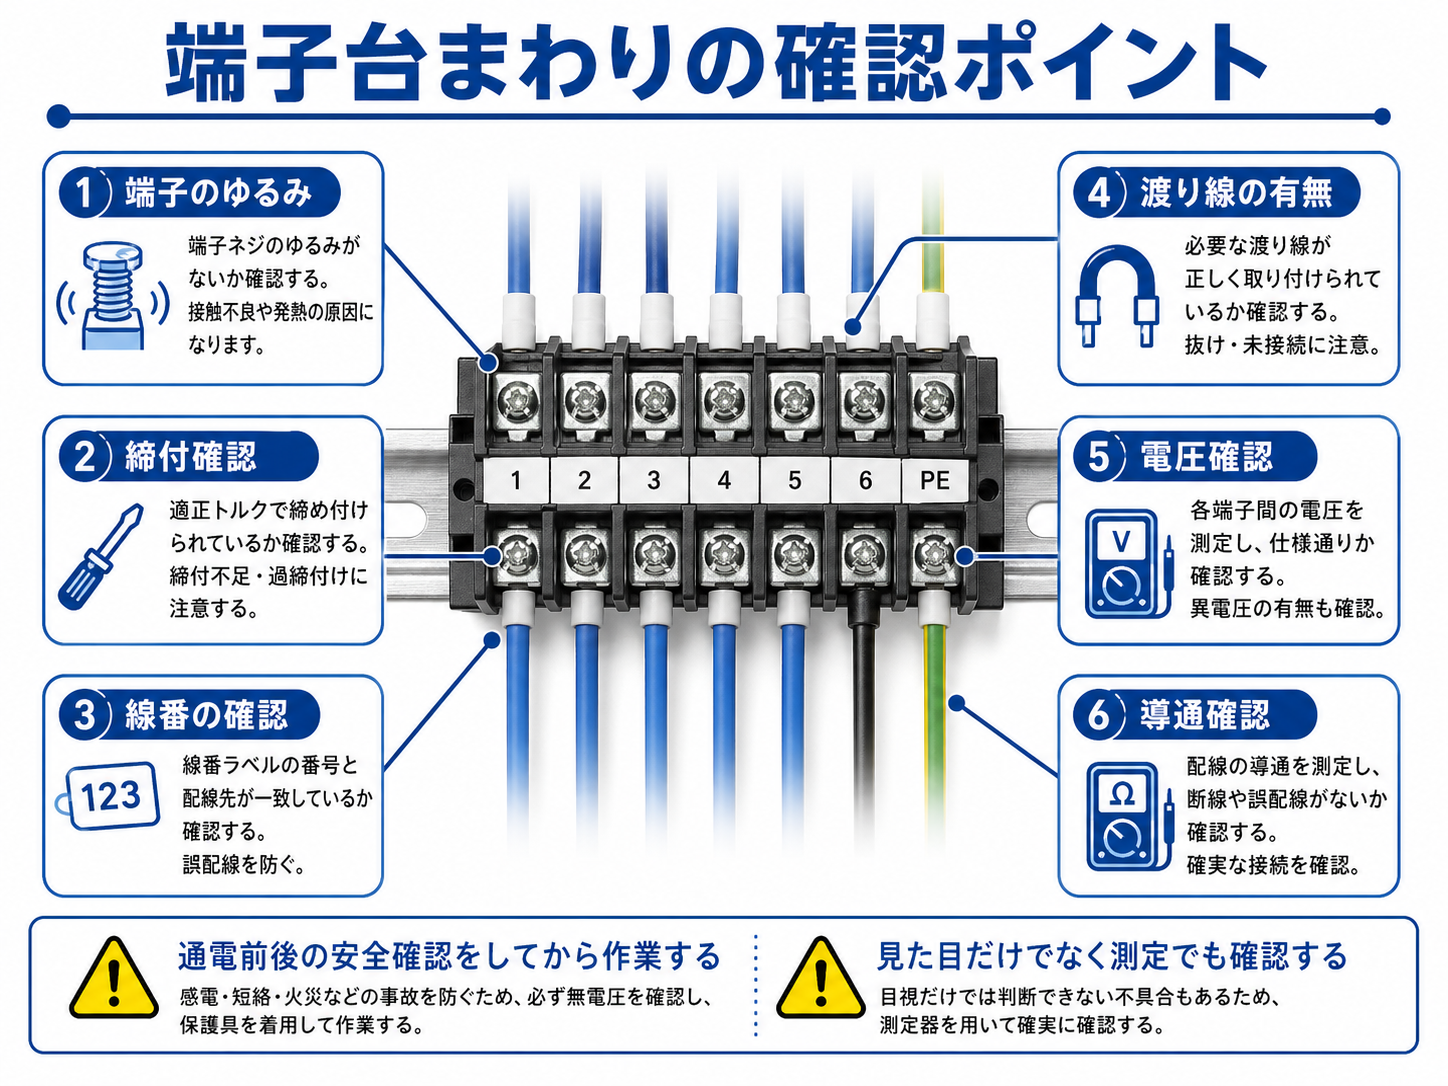
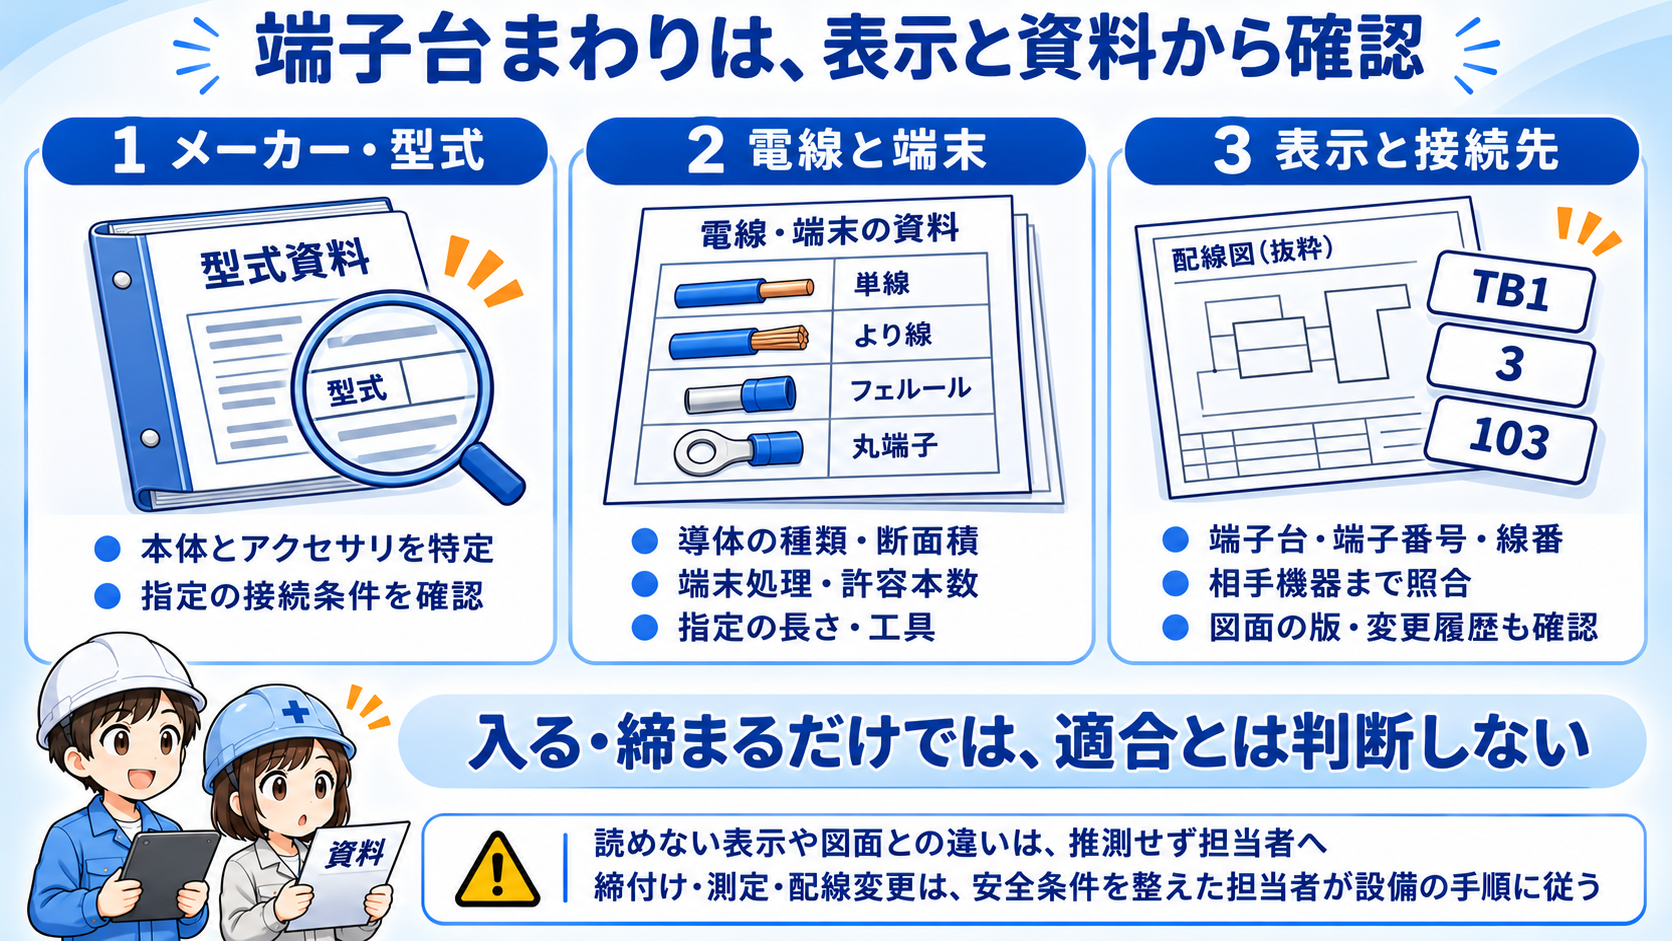
Refresh terminal block article with approved images and scoped draft validation records

diff --git a/articles/terminal-block-basic.html b/articles/terminal-block-basic.html
@@ -13,7 +13,8 @@
   <meta property="og:title" content="端子台とは？制御盤で配線を中継する部品の見方をやさしく解説">
   <meta property="og:description" content="制御盤でよく見る端子台の基本、端子番号と配線の見方、端子台まわりの確認ポイントを初心者向けに整理します。">
   <meta property="og:url" content="https://denkicontrol.com/articles/terminal-block-basic.html">
-  <meta property="og:image" content="https://denkicontrol.com/assets/images/terminal-block-basic/terminal-block-hero.png">
+  <meta property="og:image" content="https://denkicontrol.com/assets/images/terminal-block-basic/terminal-block-ogp.png">
+  <meta name="twitter:image" content="https://denkicontrol.com/assets/images/terminal-block-basic/terminal-block-ogp.png">
   <meta name="twitter:card" content="summary_large_image">
   <meta name="theme-color" content="#f8fbff">
   <link rel="icon" type="image/png" sizes="16x16" href="../assets/images/common/site-logo-dcl-16.png">
@@ -1562,12 +1563,17 @@ body{
               </tbody>
             </table>
           </div>
+          <figure class="article-figure">
+            <img src="../assets/images/terminal-block-basic/terminal-block-connection-comparison.png" alt="ねじの締付けで圧着端子を固定する例と、ばねで導体を保持するプッシュイン方式の模式図" loading="lazy" decoding="async">
+            <figcaption>接続を固定する方法の比較です。左図は内部の導通関係を示していません。プッシュインはねじなし式の一例で、クランプ操作式などもあります。適合電線、端末処理、操作方法は対象型式の資料で確認します。</figcaption>
+          </figure>
+
           <p>渡り配線には、電線でつなぐ方法と対応する短絡バー・ジャンパを使う方法があります。<strong>対応型式・接続する端子・極数・電流条件</strong>を確認し、似た形の金具を流用しません。詳しくは<a href="terminal-block-jumper-basic.html">端子台の渡り線・ジャンパーの基本</a>へ進んでください。</p>
 
           <figure class="article-figure">
-            <img src="../assets/images/terminal-block-basic/terminal-block-overview.png" alt="制御盤の端子台と盤外機器・盤内機器の接続イメージ" loading="lazy" decoding="async">
+            <img src="../assets/images/terminal-block-basic/terminal-block-overview.png" alt="渡り接続のない中継端子台の3極と、各極の前後だけがつながる模式図" loading="lazy" decoding="async">
             <figcaption>
-              端子台は、盤外機器側の配線と制御盤内の機器側の配線をつなぐ中継ポイントです。端子番号を基準にして配線を整理します。
+              一般的な中継端子台の例です。同じ極の両側はつながり、隣の極とは絶縁されています。渡り接続のない模式図であり、実際の接続関係は型式資料と図面で確認します。
             </figcaption>
           </figure>
 
@@ -1607,9 +1613,9 @@ body{
           </p>
 
           <figure class="article-figure">
-            <img src="../assets/images/terminal-block-basic/terminal-number-wiring.png" alt="図面の端子番号と実物の端子台番号を照らし合わせるイメージ" loading="lazy" decoding="async">
+            <img src="../assets/images/terminal-block-basic/terminal-number-wiring.png" alt="端子台TB1の端子3、線番103、盤外機器Aと盤内入力機器Bを図面と表示で照合する架空例" loading="lazy" decoding="async">
             <figcaption>
-              図面の端子番号、実物の端子台番号、線番、配線先を照らし合わせて確認します。端子番号だけでなく、線番や行き先も合わせて見ると間違いにくいです。
+              端子台の識別、端子番号、線番、接続先は別々の情報です。TB1・端子3・線番103は番号対応の架空例で、電源・戻り線・保護回路を省略しています。実設備の配線図ではありません。
             </figcaption>
           </figure>
 
@@ -1710,7 +1716,7 @@ body{
           <h2>端子台まわりで確認する表示と仕様</h2>
           <p>最初に整理するのは、図面・型式・識別表示です。電線が穴に入ることや、ねじ径が同じことだけでは、適合する接続とは判断できません。</p>
           <figure class="article-figure">
-            <img src="../assets/images/terminal-block-basic/terminal-block-checkpoints.png" alt="端子台まわりの確認ポイント" loading="lazy" decoding="async">
+            <img src="../assets/images/terminal-block-basic/terminal-block-checkpoints.png" alt="メーカーと型式、電線と端末、識別表示と接続先を資料で確認する3項目" loading="lazy" decoding="async">
             <figcaption>型式、電線と端末、接続先を資料で確認します。締付けや測定を行う場合は、担当者が設備の安全手順と対象型式の指示に従います。</figcaption>
           </figure>
           <div class="check-grid">
@@ -1767,6 +1773,7 @@ body{
           <h2>メーカー公式資料・技術参照元</h2>
           <p>公式資料確認日：<time datetime="2026-11-11">2026年11月11日</time>。接続方式と確認項目の根拠として、次の資料を参照しています。実際の選定・作業では、対象型式の最新の取扱説明書・定格表と設備の図面を優先してください。</p>
           <ul>
+            <li><a href="https://www.idec.com/ja-jp/industrial-components/connection-devices/terminal-blocks/bn-series" target="_blank" rel="noopener noreferrer">IDEC：BNシリーズ端子台</a> — 黒い隔壁を持つねじ式端子台の外観例。画像は特定型式の再現ではありません。</li>
             <li><a href="https://www.fa.omron.co.jp/guide/technicalguide/46/342/index.html" target="_blank" rel="noopener noreferrer">オムロン：プッシュインPlus端子台の技術解説</a> — ねじ式・ねじなし式、導体とフェルールの扱い。</li>
             <li><a href="https://www.fa.omron.co.jp/products/family/3480/specification/" target="_blank" rel="noopener noreferrer">オムロン：XW5T-Pの定格・性能</a> — 型式と導体種類ごとに適合条件が異なる例。</li>
             <li><a href="https://faq.fa.omron.co.jp/tech/s/article/faq05534" target="_blank" rel="noopener noreferrer">オムロン：渡り配線に関するFAQ</a> — 対応する短絡バー・接続口の条件。</li>

diff --git a/docs/reference-notes/terminal-block-basic.md b/docs/reference-notes/terminal-block-basic.md
@@ -1,7 +1,7 @@
 # terminal-block-basic 公式参照メモ
 
 ## 状態と確認日
-- 2026-11-11。本文下書きの技術精査用。画像の修正・採用と公開前確認は未完了であり、公開承認ではない。
+- 2026-11-11。本文と画像の正式Preview用下書き。画像6枚は自己点検と独立審査後のPreview採用候補として配置済み。最終Previewの管理者確認、本番承認・公開は未完了。
 - 最新main 45c9773843e16024ba1525825582e20d83ace6b8を基準に作成。未マージPR #1463の安全表現を参照したが、古いレイアウトと共通部品を戻さない。
 
 ## 参照した公式元と使用範囲
@@ -35,13 +35,56 @@
 - FK12-014/015：見送り。工具の人気、無理な押込みや端末切断は本文の根拠としない。今回原典を再確認していない。
 - FK10-001/003、FK15-009：追加検証Bを維持。一般化せず不採用。
 
-## 画像ルールと未完了事項
-- ロゴ・実在型式・銘板は再現しない。概念図として描く。
-- 許可する説明用表記は「端子台TB1」「端子番号3」「線番103」「盤外機器A」「盤内入力機器B」。架空例であることを本文と図の双方で明示する。
-- 既存terminal-number-wiring.pngは番号対応が不明確で本文と整合しないため差替え必須。terminal-block-checkpoints.pngも測定・締付けの表現が新本文と矛盾し、そのまま採用しない。
-- overviewは隣接極の導通を誤解させないよう再制作・確認する。heroの指示先も改善候補。画像は自己点検と独立審査が終わるまで採用しない。
-- 現時点のHTMLに残る旧画像参照は作業途中のもので、完成したPreviewではない。画像未解決のまま公開・マージしない。
+## 画像の採用範囲と未完了事項
+- 画像はロゴ・実在型式・銘板を再現しない概念図。2026-11-11にHero、OGP、内部構造、接続方式比較、端子番号と線番の照合、確認ポイントの6枚を自己点検と独立画像審査後のPreview採用候補として配置した。旧画像をそのまま採用したものではない。
+- HeroとOGPは3極・6ねじ・6配線、丸端子の余分な穴の除去、隣接極の分離、手が導体に触れない表現を確認した。
+- 内部構造は渡り配線のない一般的な中継の模式図。端子番号と線番の照合は「端子台TB1」「端子番号3」「線番103」「盤外機器A」「盤内入力機器B」の架空例で、施工可能な回路図や標準採番法ではない。
+- 接続方式比較は固定方法だけを示す。左側は隔壁のある2極にも見えるため、この図から内部導通や同電位を断定しない。確認ポイントは資料照合と担当者判断を中心とし、一律の測定・増締めを勧めない。
+- 外観参照: [IDEC BNシリーズ端子台](https://www.idec.com/ja-jp/industrial-components/connection-devices/terminal-blocks/bn-series) と同ページの [公式製品写真](https://apem.asset.akeneo.cloud/idec_product_images/media/BN_Series.jpg)。2026-11-11確認。レール取付、黒い隔壁、ねじ、導電金具という一般外観だけを参照し、特定型式の精密な再現とはしない。本文の公式資料欄にも参照範囲付きのリンクを追加した。
+- 接続原理の参照は上記オムロン技術解説。ねじ式・ねじなし式の固定方法、導体・端末処理の適合を区別し、画像だけで定格・締付け条件・内部導通を判断させない。
+- 画像のローカル原本とGitHub保存用blobのGit SHA一致は6枚すべて確認。最終publicationのWebP対応、外部Previewでの画像表示、PC/スマホのライト・ダーク確認は別工程として残す。
 
 ## 検証記録
 - 本文変更前の統合生成は288記事保持と資産欠落0を確認。実配信はWebP変換と改行正規化を考慮して基準生成物と一致を確認した。
-- 本文変更後の生成・台帳整合・公開物検査・PC/mobile明暗レビューは別途必要。検査未完了を合格として扱わない。
+- 本文変更後の統合生成・台帳整合・静的保全検査は下記のとおり実施。WebP最適化後の最終成果物とPC/mobile明暗レビューは別工程であり、静的検査の成功だけで合格扱いしない。
+
+## PR #1828 正式Preview用の限定同期（2026-11-11）
+- 編集元head: `5e69fcb3137a63c1663eb273fce183d54b8bb923`。採用候補の本文・画像・目次に合わせ、以下の端子台記事entryだけを同期した。この最初の同期では他記事entryを変更しなかった。後述の追加許可により、端子台へリンクする13カードのOGP記録だけを同期した。共通比較基準、生成器、必須チェックは変更していない。
+- これはDraftの原稿と生成台帳の整合であり、変更後の本番承認基準への昇格ではない。旧値を以下に保持する。最終Previewの承認後も本番配信確認までは公開済みと扱わない。
+- 意図した差分: 説明画像6枚と対応する本文参照・alt、照合例と安全上の留保、公式参照欄、対象記事の要点カードと目次。IDEC BNの外観参照リンクを公式資料欄に1件追加した。記事URL、共通レイアウト、既存関連記事の内容・順序、投票処理、トップ・カテゴリ・検索index・sitemapは変更しない。
[1 lines of base64/hex data omitted]
+- `.github/article-components/site-inventory.json` の `gitBlob`: `f331b5b5befa74776d6edfd8dc57ad5869ccff8e` → `e55448eb9c92f49afc104fc99f92db877a2301e9`。最終編集元の全文実バイトをGit blob形式で計算。
[1 lines of base64/hex data omitted]
+  - 目次 `check`: 端子台まわりの確認ポイント → 端子台まわりで確認する表示と仕様。
+  - 目次 `trouble`: トラブル時の見方 → トラブル時は、端子台を境に情報を整理する。
+  - 目次 `caution`: 作業するときの注意点 → 配線や点検を行う前の注意点。
+  - 目次 `sources`: （旧entryなし） → メーカー公式資料・技術参照元。
[1 lines of base64/hex data omitted]
+- Hero CSS・背景URLは変更していないため、hero/css-bindingsの対象entryは不変。
+- 未変更headではshell整合288件・単体5件、ルール構造151文書/81制御・回帰18件が成功し、正式統合生成は既存の対象記事shell baseline不整合で停止した。限定同期後の初回生成、本文/SEO/元スクリプト/フッター等の全288記事保全、Hero288記事保全・共通伝播/異常系、追加16ページ生成は成功。IDECリンク追記後の最終統合生成も成功し、source/Hero保全288記事、リンク資産監査の新規欠落0、追加shell16ページ、publication境界検査288記事/追加16ページ/非対象7ページと異常系を確認した。外部Previewの4表示条件は引き続き確認が必要。未完了を合格として扱わない。
+
+## 関連記事カードOGPの限定同期（2026-11-11）
+- 追加許可に基づき、以下13記事の端子台へのカードについて、独立照合台帳の `ogp` と `ogpPath` のみを更新した。記事本文・カード文言・リンク先・並び順・タイトル・元記事SHAは変更しない。
+- 旧 `ogp`: `https://denkicontrol.com/assets/images/terminal-block-basic/terminal-block-hero.png`。新 `ogp`: `https://denkicontrol.com/assets/images/terminal-block-basic/terminal-block-ogp.png`。
+- 旧 `ogpPath`: `assets/images/terminal-block-basic/terminal-block-hero.png`。新 `ogpPath`: `assets/images/terminal-block-basic/terminal-block-ogp.png`。
+  - `articles/circuit-protector-basic.html` のカードindex `0`。
+  - `articles/control-panel-label-basic.html` のカードindex `1`。
+  - `articles/control-panel-light-basic.html` のカードindex `1`。
+  - `articles/control-panel-wire-color-basic.html` のカードindex `1`。
+  - `articles/dc24v-power-supply-basic.html` のカードindex `2`。
+  - `articles/dc24v-power-troubleshooting-basic.html` のカードindex `4`。
+  - `articles/din-rail-basic.html` のカードindex `0`。
+  - `articles/limit-switch-troubleshooting-basic.html` のカードindex `5`。
+  - `articles/plc-io-unit-basic.html` のカードindex `5`。
+  - `articles/relay-socket-basic.html` のカードindex `3`。
+  - `articles/terminal-block-jumper-basic.html` のカードindex `0`。
+  - `articles/wire-number-marker-basic.html` のカードindex `0`。
+  - `articles/wiring-duct-basic.html` のカードindex `1`。
+- これは承認済み専用OGPを関連記事カードにも用いるためのDraft内整合であり、本番承認基準への昇格ではない。この同期後に独立静的保全を再検証した。
+
+## 正式生成の到達点（2026-11-11 11:31 UTC時点）
+- 同期後の独立関連記事保全: 288記事、記事カード1356件、案内カード9件。日本語評価欄177件・英語0件。共通関連記事CSS・評価CSS・元投票スクリプト一致、検査中の入力不変、エラー0。
+- shell基準検査288記事とルール構造検査151文書/81制御は成功。構造検査は全ルールの意味上の読了や外部資料の妥当性を証明しない。
+- 正式publication組立: 288記事、追加shell16ページ、非対象7ページの保全、レビュー専用の隔離コード非混入を確認。WebP前スナップショット350テキスト、参照資産の既存欠落0。同名PNG/JPEG衝突2組は既存規則に従って原本を保持する。
+- この記録の確定時点では、publication複製だけを対象に本番と同じ cwebp `-quiet -mt -q 82 -m 4` でWebP派生を生成中。採用PNG原本6枚と最終編集元本文は不変。WebP後の最終検証・外部URL実バイト照合・PCライト/PCダーク/スマホライト/スマホダークの表示確認は未完了であり、完了記録は後続のPreview検証結果で確認する。
+- 既存Cloudflare Previewの旧head配信はraw HTMLとバイト一致し、正式生成物ではなかった。最終案内には検証済みpublication成果物をPreview専用branchで配信し、共通shell等の構造と実バイトを確認する。Preview専用branchはmainへマージせず、本番公開・課金は別途確認する。
